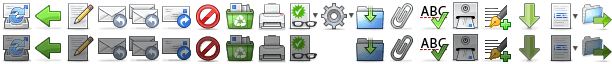
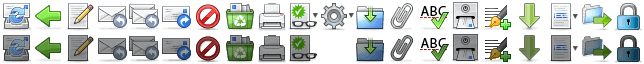
Mailvelope integration with classic skin

diff --git a/skins/classic/functions.js b/skins/classic/functions.js
@@ -193,6 +193,9 @@ uploadmenu: function(show)
     catch(e){}  // ignore errors
   }
 
+  if (rcmail.mailvelope_editor)
+    return;
+
   this.show_popupmenu('uploadmenu', show);
 
   if (!document.all && this.popups.uploadmenu.obj.is(':visible'))
@@ -1035,9 +1038,16 @@ function rcube_init_mail_ui()
           setTimeout(function() { rcmail.message_list.resize(); }, 10);
         });
 
-      if (rcmail.env.action == 'compose')
+      if (rcmail.env.action == 'compose') {
         rcmail_ui.init_compose_form();
-      else if (rcmail.env.action == 'show' || rcmail.env.action == 'preview')
+        rcmail.addEventListener('compose-encrypted', function(e) {
+          $("a.button.encrypt")[(e.active ? 'addClass' : 'removeClass')]('selected');
+          $("select[name='editorSelector']").prop('disabled', e.active);
+          $('a.button.attach, a.button.responses, a.button.attach, #uploadmenulink')[(e.active ? 'addClass' : 'removeClass')]('buttonPas disabled');
+          $('#responseslist a.insertresponse')[(e.active ? 'removeClass' : 'addClass')]('active');
+        });
+      }
+      else if (rcmail.env.action == 'show' || rcmail.env.action == 'preview') {
         // add menu link for each attachment
         $('#attachment-list > li[id^="attach"]').each(function() {
           $(this).append($('<a class="drop"></a>').bind('click keypress', function(e) {
@@ -1047,6 +1057,16 @@ function rcube_init_mail_ui()
             }
           }));
         });
+
+        $(window).resize(function() {
+          var mvlpe = $('#messagebody.mailvelope');
+          if (mvlpe.length) {
+            var content = $('#messageframe'),
+              h = (content.length ? content.height() + content.offset().top - 25 : $(this).height()) - mvlpe.offset().top - 20;
+            mvlpe.height(h);
+          }
+        });
+      }
     }
     else if (rcmail.env.task == 'addressbook') {
       rcmail.addEventListener('afterupload-photo', function(){ rcmail_ui.show_popup('uploadform', false); })

diff --git a/skins/classic/mail.css b/skins/classic/mail.css
@@ -184,6 +184,14 @@
   background-position: -548px 0;
 }
 
+#messagetoolbar a.encrypt {
+  background-position: -612px 0;
+}
+
+#messagetoolbar a.encryptSel {
+  background-position: -612px -32px;
+}
+
 #messagemenu li a.active:hover,
 #attachmentmenu li a.active:hover,
 #markmessagemenu li a.active:hover
@@ -1029,6 +1037,10 @@ table.headers-table
   background-color: #F4F4F4;
 }
 
+#messagebody.mailvelope {
+  padding: 10px 8px;
+}
+
 #messagebody table.headers-table
 {
   margin: 16px 6px 6px 6px;
@@ -1711,4 +1723,57 @@ input.from_address
 {
   top: 45px;
   position: absolute;
+}
+
+.mailvelopekeyimport div.key {
+  position: relative;
+  margin-bottom: 2px;
+  padding: 1em 1em 5px;
+  background-color: #ebebeb;
+}
+
+.mailvelopekeyimport div.key.revoked,
+.mailvelopekeyimport div.key.disabled {
+  color: #a0a0a0;
+}
+
+.mailvelopekeyimport div.key label {
+  display: inline-block;
+  margin-right: 0.5em;
+}
+
+.mailvelopekeyimport div.key label:after {
+  content: ":";
+}
+
+.mailvelopekeyimport div.key label + a,
+.mailvelopekeyimport div.key label + span {
+  display: inline-block;
+  margin-right: 2em;
+  white-space: nowrap;
+}
+
+.mailvelopekeyimport div.key label + a {
+  font-weight: bold;
+}
+
+.mailvelopekeyimport ul.uids {
+  margin: 5px 1em 0 1em;
+  padding: 0;
+}
+
+.mailvelopekeyimport li.uid {
+  border: 0;
+  padding: 2px;
+}
+
+.mailvelopekeyimport div.key input.button.importkey {
+  position: absolute;
+  top: 0.8em;
+  right: 0.8em;
+  padding: 2px 6px;
+}
+
+.mailvelopekeyimport div.key input.button[disabled] {
+  display: none;
 }

diff --git a/skins/classic/templates/compose.html b/skins/classic/templates/compose.html
@@ -39,6 +39,7 @@
     </span>
 <roundcube:endif />
     <a href="#responses" class="button responses" label="responses" title="<roundcube:label name='insertresponse' />" id="responsesmenulink" unselectable="on" onmousedown="return false" onclick="rcmail_ui.show_popup('responsesmenu');return false">&nbsp;</a>
+    <roundcube:button command="compose-encrypted" type="link" class="buttonPas encrypt disabled" classAct="button encrypt" classSel="button encrypt" title="encryptmessagemailvelope" content=" " style="display:none" />
     <roundcube:container name="toolbar" id="compose-toolbar" />
     <roundcube:button name="messageoptions" id="composemenulink" type="link" class="button messagemenu" title="messageoptions" onclick="rcmail_ui.show_popup('composemenu', true);return false" content=" " />
 </div>
@@ -135,7 +136,7 @@
     </div>
     <div id="compose-div">
         <div id="compose-body-div">
-            <div class="boxlistcontent" style="overflow: hidden; top: 0">
+            <div id="compose-body-parent" class="boxlistcontent" style="overflow: hidden; top: 0">
                 <roundcube:object name="composeBody" id="compose-body" form="form" cols="70" rows="20" tabindex="9" />
             </div>
             <div class="boxfooter">
